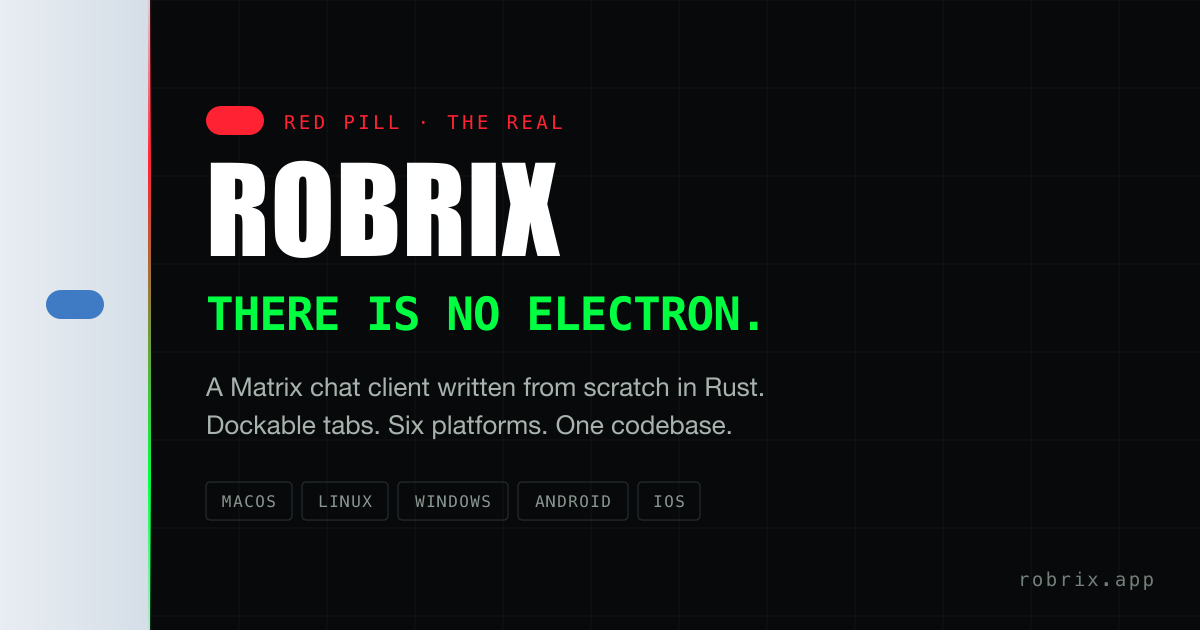
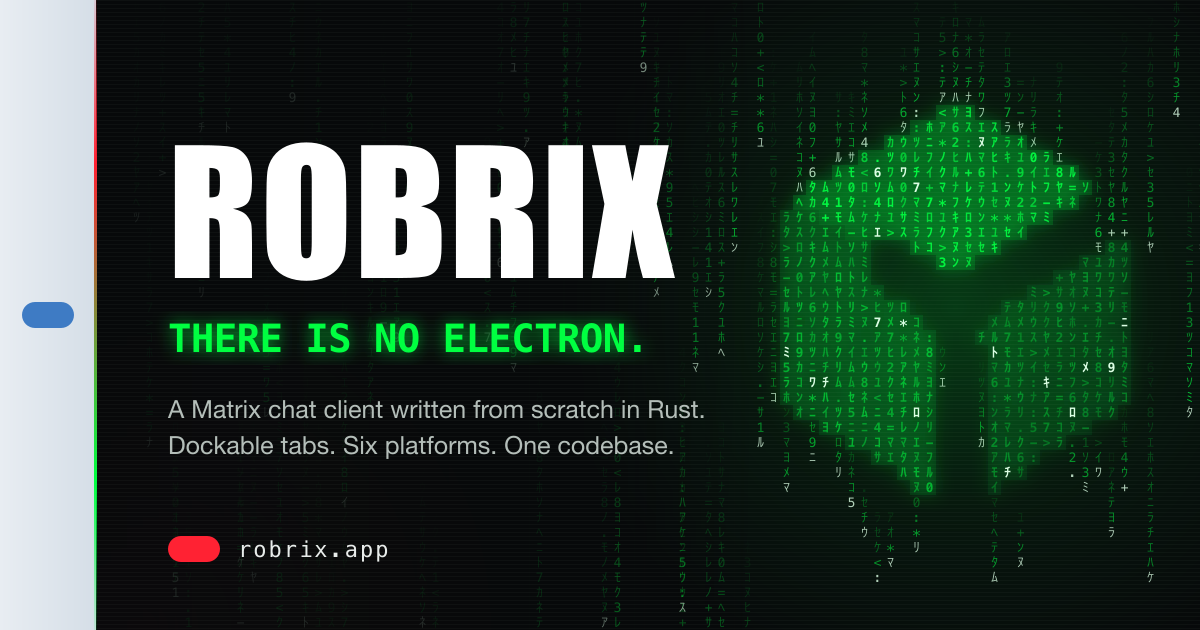
Redraw the link-preview card around a cube made of rain glyphs
- Sample robrix-logo.png onto the rain's glyph grid and light its three
  faces at three brightnesses of phosphor, with streaks landing on the
  cube's top edge and leaving from its underside
- Add seeded rain, a scrim behind the text, scanlines and a halo, so the
  output is identical between runs
- Enlarge the wordmark, drop the platform chips and the pill label, and
  move the red pill beside robrix.app
- Note in the README what the card is generated from

diff --git a/README.md b/README.md
@@ -61,7 +61,8 @@ node scripts/make-og.mjs
 
 Renders `public/images/og.png` from SVG via sharp. It substitutes Impact and
 Menlo for Anton and JetBrains Mono, so run it on a machine that has them
-(any macOS).
+(any macOS). The cube is sampled from `public/images/robrix-logo.png` and the
+rain is seeded, so the output only changes when the script or the logo does.
 
 ## Known gaps
 
